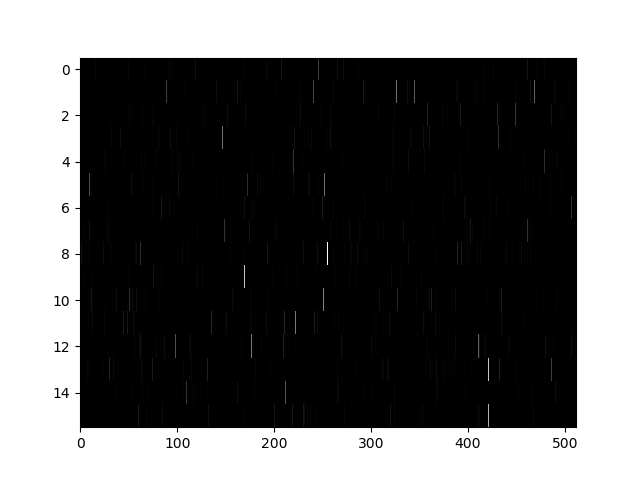
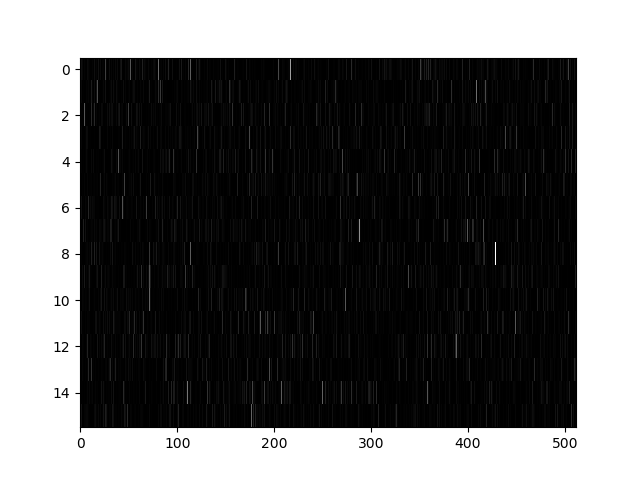
100 epochs

diff --git a/trainer/model.py b/trainer/model.py
@@ -20,11 +20,10 @@ from scipy.misc import imread
 print("Hello world!")
 print(keras.__version__)
 
-def one_hot(i):
-	a = np.zeros(5, np.int32)
-	a[i] = 1
-	return a
+data_loc = '/Users/mulan/desktop/fits_data/'
+ext = '.fits'
 
+typ = '_diag'
 # stop randomness
 seed = 128
 rng = np.random.RandomState(seed)
@@ -34,21 +33,54 @@ root_dir = os.path.abspath('.')
 data_dir = os.path.join(root_dir, 'Data')
 
 # dictionary of data: labels
-with open('labelled_files.pkl', 'rb') as f:
+# with open('labelled_files.pkl', 'rb') as f:
+#     data = pickle.load(f)
+
+# def flatten(x):
+#     return [item for sublist in x for item in sublist]
+
+# data = [k for k, v in data.iteritems() if v == 6.0 or v == 7.0]
+# pix_data = np.array(flatten([fitsio.read(data_loc + d + ext) for d in data]))
+
+# binary data
+with open('binary_diag.pkl', 'rb') as f:
     data = pickle.load(f)
 
-data = [k for k, v in data.iteritems() if v == 4.0]
+# thresholding code
+# threshold = np.sort(pix_data.flatten())
+# print(len(threshold))
+
+# plt.hist(threshold, bins = 100, range = [0, 0.78*10**9])
+# plt.show()
+
+# THRESH = threshold[(int(len(threshold) * 0.89))]
+# binary_data = np.copy(pix_data)
+# binary_data[binary_data < THRESH] = 0
+# binary_data[binary_data >= THRESH] = 1
+# binary_data = np.reshape(binary_data, (len(data), 16, 512))
+
+# with open('binary_diag.pkl', 'wb') as outfile:
+#     pickle.dump(binary_data, outfile, protocol=pickle.HIGHEST_PROTOCOL)
+
+# plt.imshow(binary_data[1], aspect = 'auto', cmap = 'gray')
+# plt.axis('off')
+# plt.show()
+# plt.imshow(fitsio.read(data_loc + data[1] + ext), cmap='gray', aspect = 'auto')
+# plt.axis('off')
+# plt.show()
+
 
 TRAIN_LIM = int(len(data) * 0.8)
 
-train_x = []
-train_y = []
+# train_x = []
 
-for d in data[:TRAIN_LIM]:
-	train_x.append(fitsio.read('/Users/mulan/desktop/fits_data/' + d +  '.fits'))
-	train_y.append(one_hot(4))
+# for d in data[:TRAIN_LIM]:
+# 	train_x.append(fitsio.read('/Users/mulan/desktop/fits_data/' + d +  '.fits'))
 
-train_x = np.asarray(train_x)
+# train_x = np.asarray(train_x)
+train_x = data[:TRAIN_LIM]
+print(train_x.shape)
+
 #define vars
 g_input_shape = 100
 d_input_shape = (16, 512)
@@ -56,7 +88,7 @@ hidden_1_num_units = 500
 hidden_2_num_units = 500
 g_output_num_units = 8192
 d_output_num_units = 1
-epochs = 25
+epochs = 100
 batch_size = 128
 
 
@@ -108,7 +140,7 @@ model.adversarial_compile(adversarial_optimizer=AdversarialOptimizerSimultaneous
 
 history = model.fit(x=train_x,
 	y=gan_targets(train_x.shape[0]),
-	epochs=10,
+	epochs=epochs,
 	batch_size=batch_size)
 
 fig = plt.figure()
@@ -126,7 +158,7 @@ pred = model_1.predict(zsamples)
 for i in range(pred.shape[0]):
 	fig = plt.figure()
 	plt.imshow(pred[i, :], cmap='gray', aspect = 'auto')
-	fig.savefig(str(i) + '.png', dpi = fig.dpi)
+	fig.savefig(str(i) + typ + '.png', dpi = fig.dpi)
 # img = fitsio.read('/Users/mulan/desktop/fits_data/' + data[0] + '.fits', flatten=True)
 
 # plt.imshow(img, cmap='gray', aspect = 'auto')

diff --git a/setup.py b/setup.py
@@ -19,12 +19,13 @@ setup(name='example5',
   version='0.1',
   packages=find_packages(),
   description='example to run keras on gcloud ml-engine',
-  author='Fuyang Liu',
-  author_email='fuyang.liu@example.com',
+  author='Mulan Xia',
+  author_email='jmxia@berkeley.edu',
   license='MIT',
   install_requires=[
       'keras',
       'fitsio',
-      'h5py'
+      'h5py',
+      'matplotlib'
   ],
   zip_safe=False)
